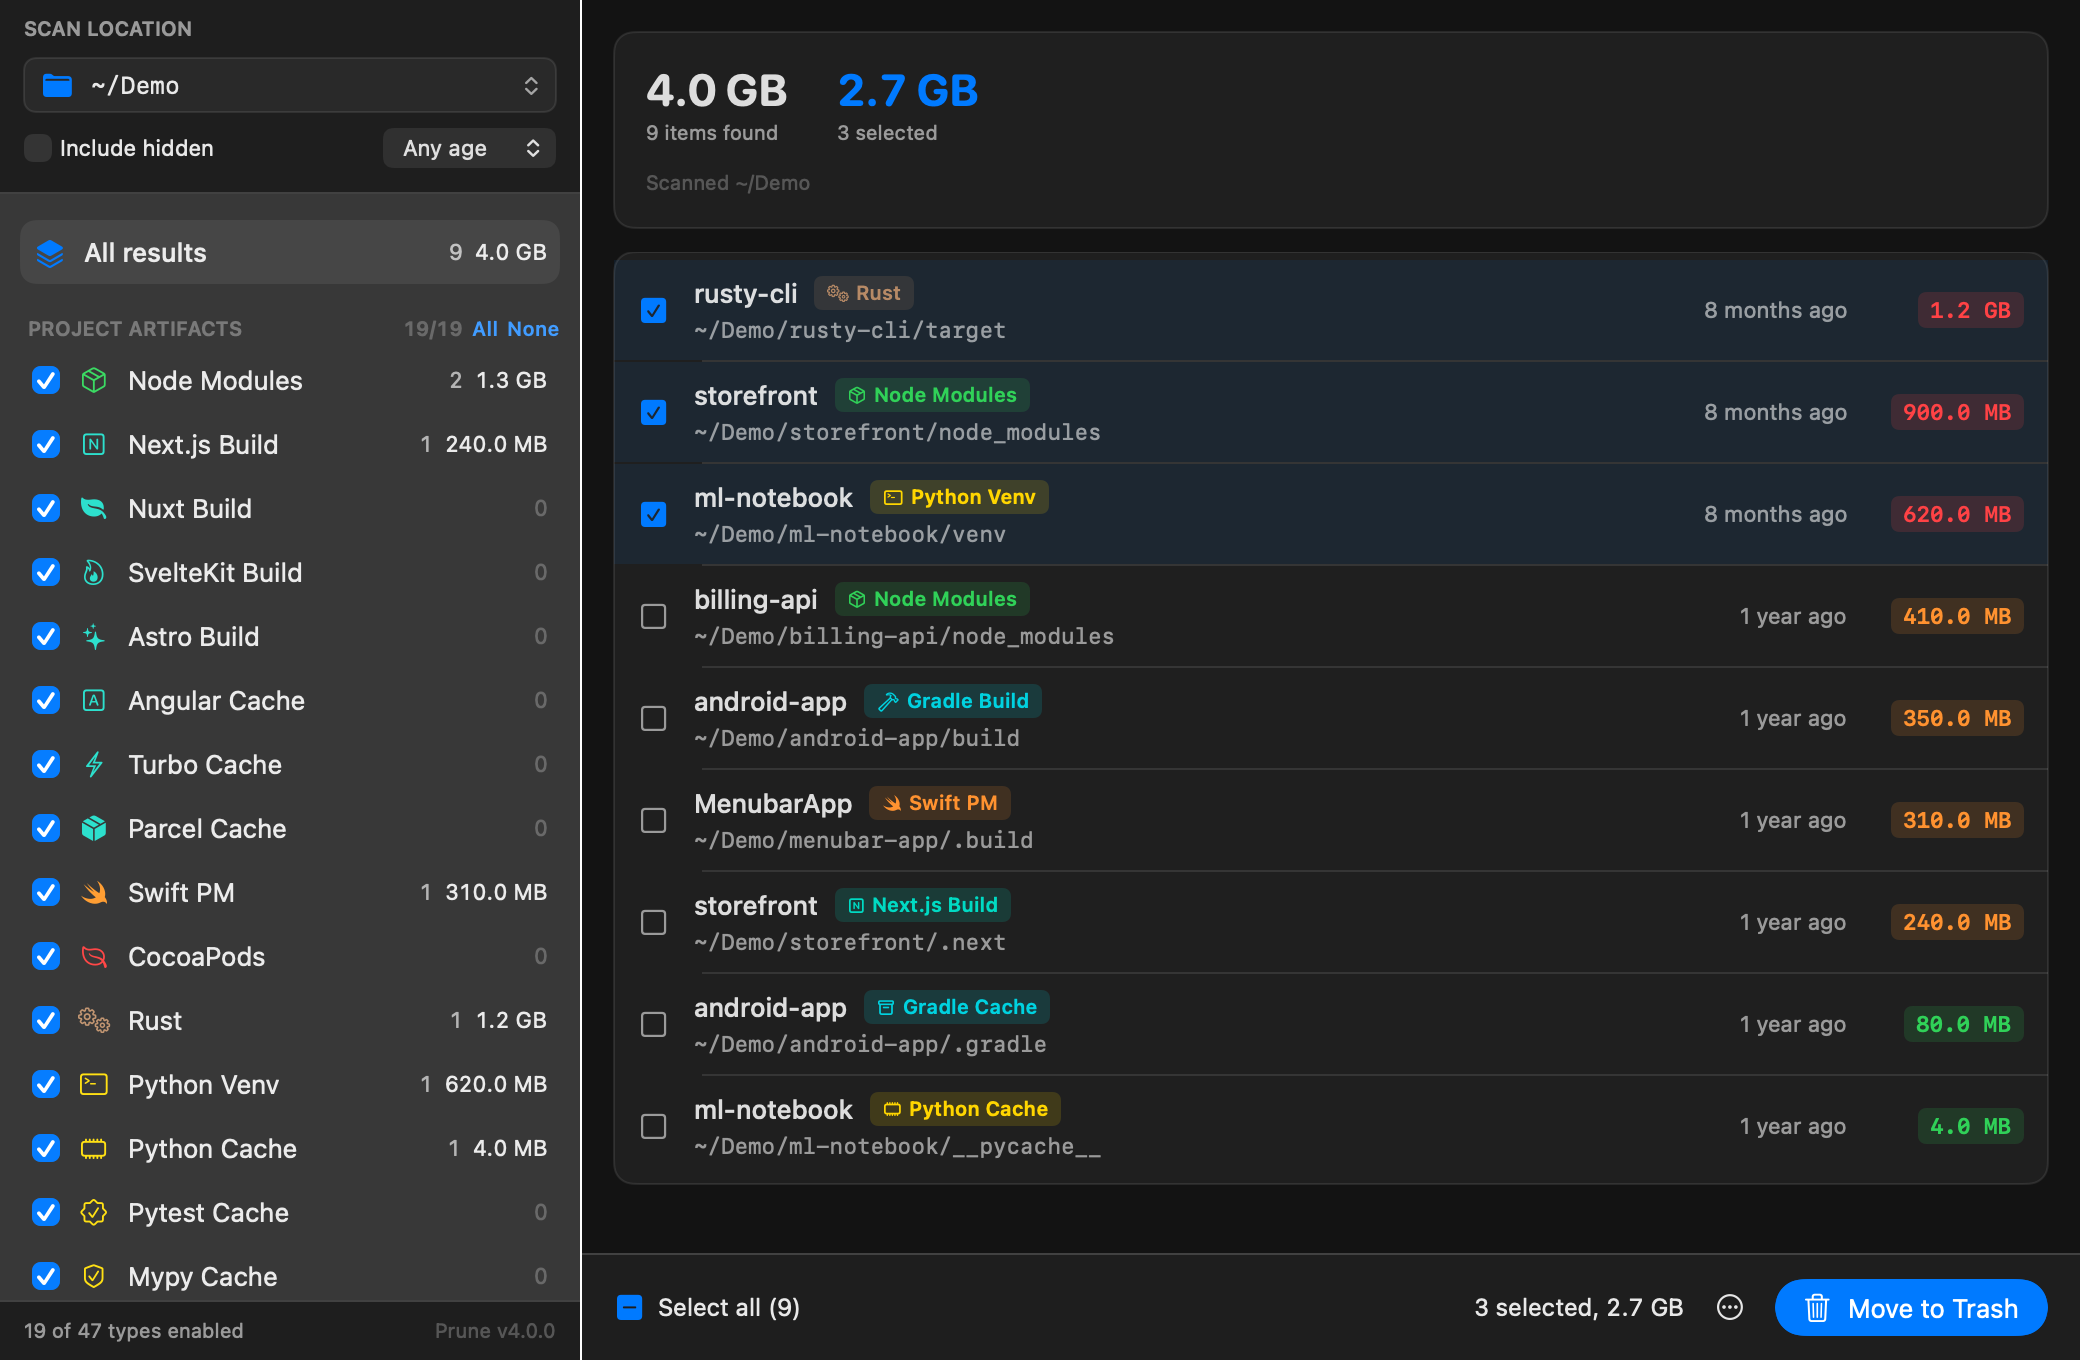
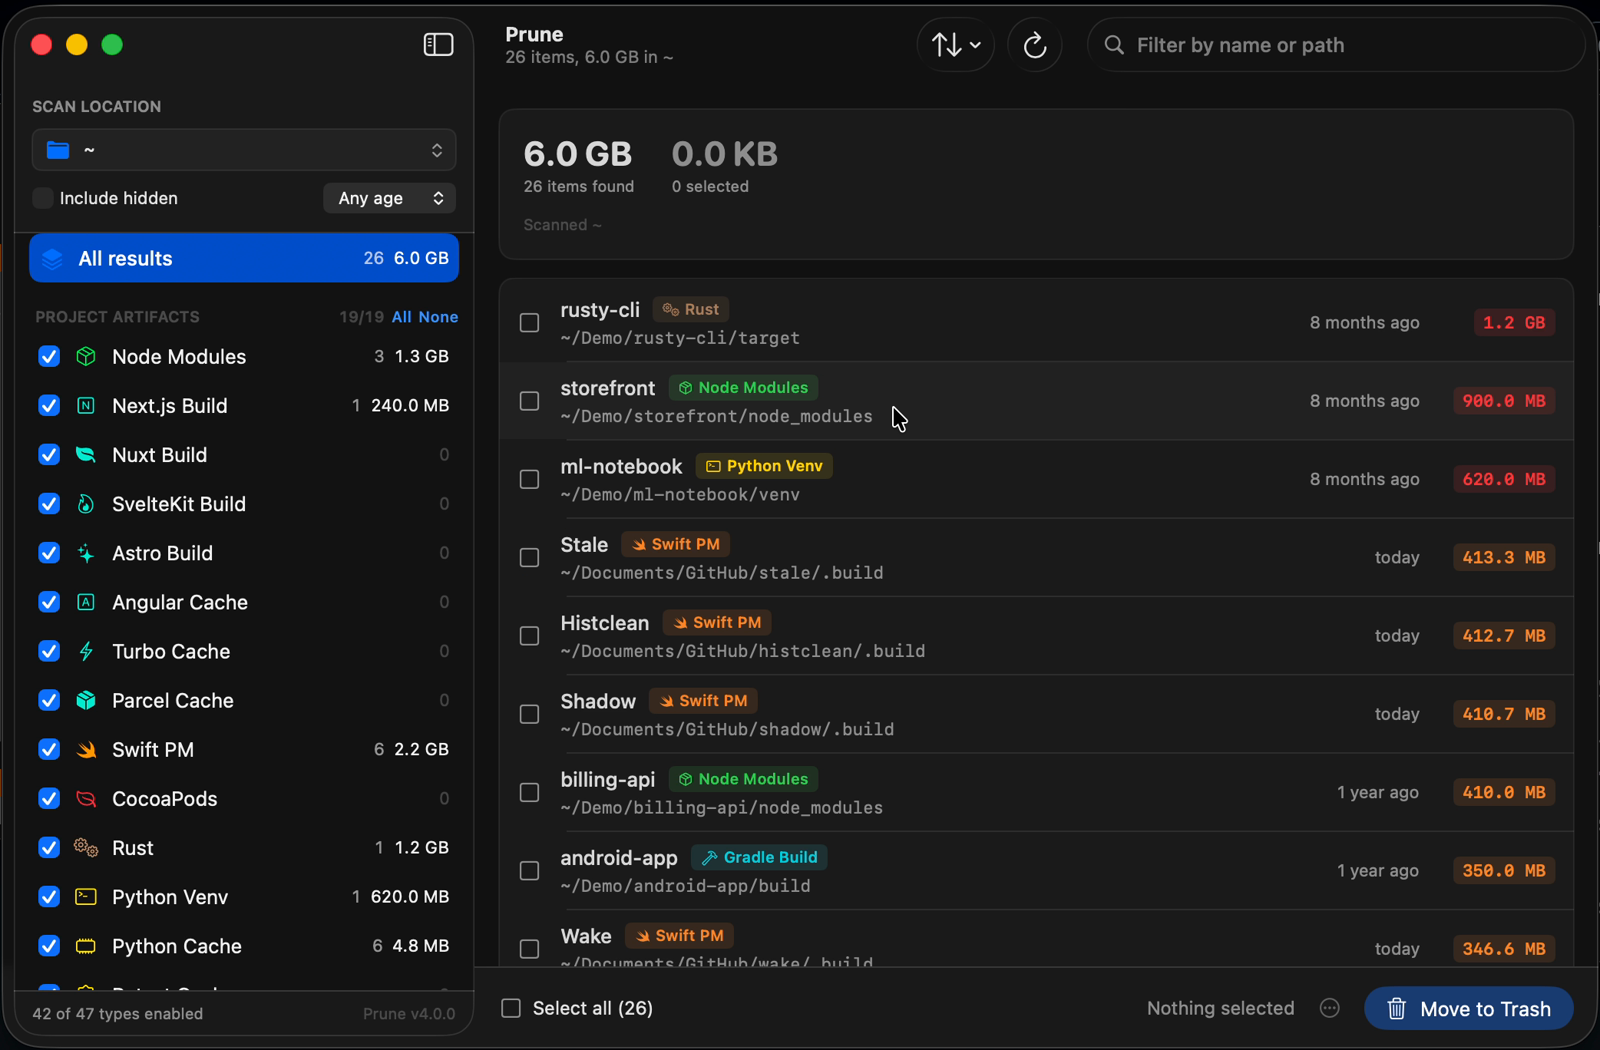
Add results screenshot and demo recording to the README

diff --git a/README.md b/README.md
@@ -31,6 +31,10 @@ under 3 MB.
   <img src="assets/results.png" width="720" alt="Prune results screen">
 </p>
 
+<p align="center">
+  <img src="assets/demo.gif" width="720" alt="Scanning a home folder, selecting artifacts and moving them to the Trash">
+</p>
+
 ## Install
 
 Prune is open source and signed with an ad-hoc signature, not an Apple Developer ID.
